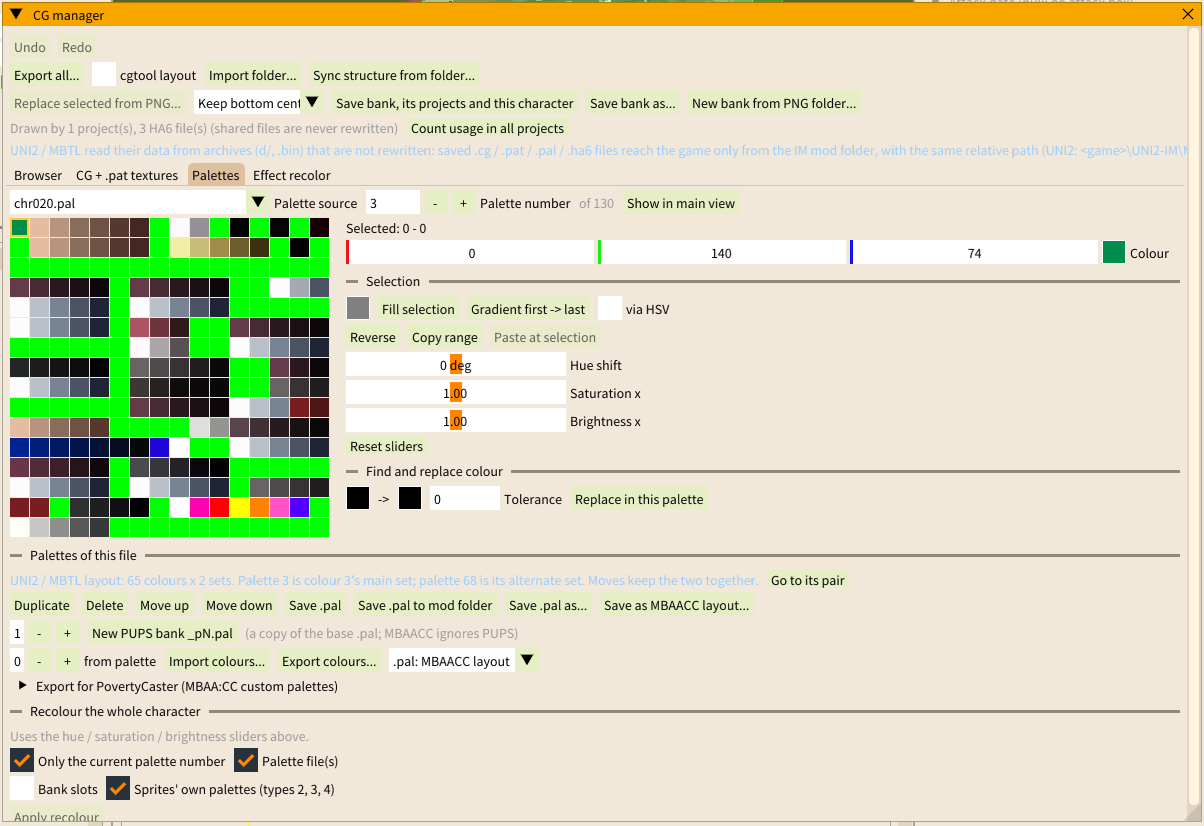
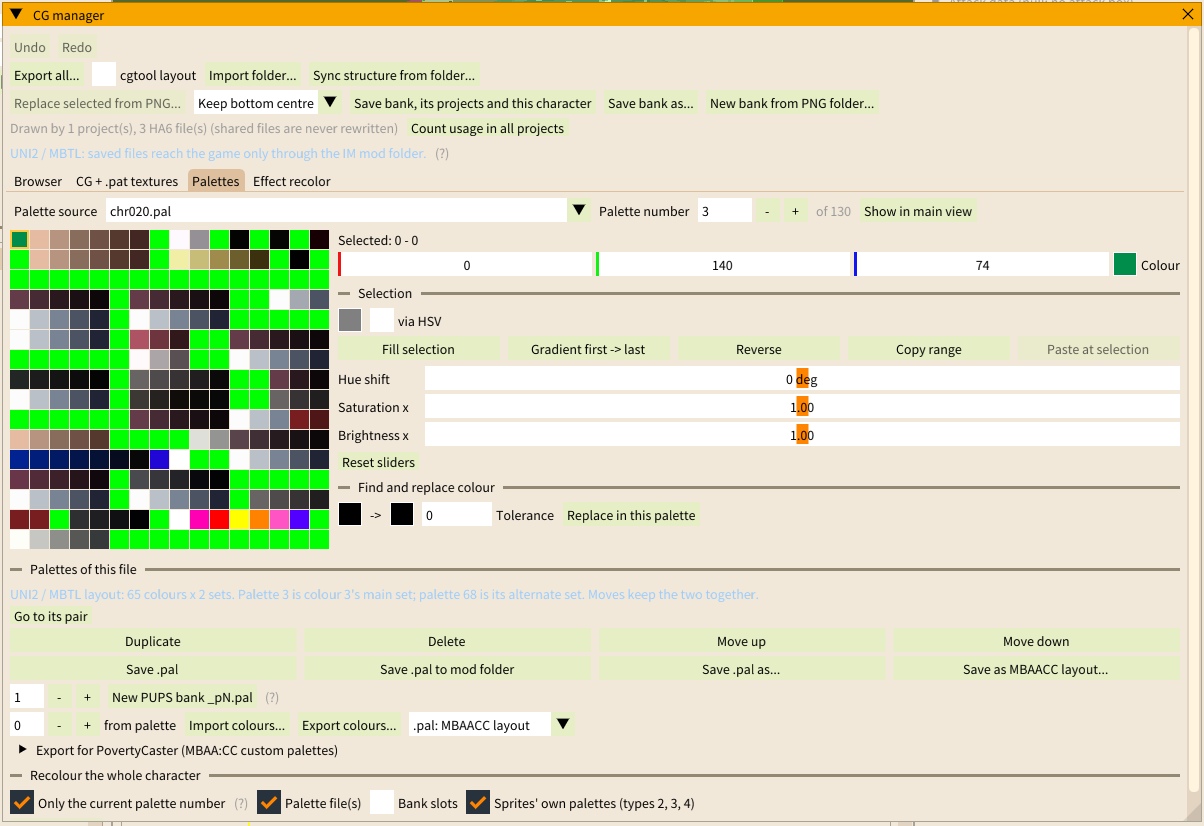
docs: layout sweep round 3 status, before/after sheets (IF/EF, CG manager tabs, L_all/L_pat at 1280 and 1080, EN+JA); CG manager showcase shots re-cropped

diff --git a/docs/showcase_2026-10-16/scripts/ui/crop_features.py b/docs/showcase_2026-10-16/scripts/ui/crop_features.py
@@ -2,7 +2,7 @@
 """crop_features.py <shot dir> <features dir>: cut each feature window out of the full-frame --ui-script capture.
 The boxes are the windows' rects in the 1884x961 client area that run_features.sh produces (ab_shot.sh 1900x1000 layout).
 Since ui::FitNextWindow (layout sweep) the tool windows open centred on the work area; the pcmod export window keeps its spot."""
-import sys
+import os, sys
 from PIL import Image
 
 BOXES = {   # name: (left, top, right, bottom); the squirrel hover box also covers the tooltip, the game link box is the panel only (it no longer sits over the sprite)
@@ -18,5 +18,6 @@ BOXES = {   # name: (left, top, right, bottom); the squirrel hover box also cove
 }
 src, dst = sys.argv[1], sys.argv[2]
 for name, box in BOXES.items():
+    if not os.path.exists(f'{src}/{name}.png'): continue   # re-crop a subset (e.g. only the CG manager shots)
     Image.open(f'{src}/{name}.png').convert('RGB').crop(box).save(f'{dst}/{name}.png', optimize=True)
     print(name, box)

diff --git a/docs/ui/LAYOUT_AUDIT_2026-10-16.md b/docs/ui/LAYOUT_AUDIT_2026-10-16.md
@@ -26,13 +26,13 @@ Branch `ui/layout-sweep` (cut from `update/parity-1014`).
 | 6 | PAT editor (RBO / GOF2 / MBAACC .pat) | Tool pane (top right, 60% of the centre column) holds one help line; PartSet pane buttons clip ("Cle...", "Update fr...") in its 30% column; Shape pane is one button over a large empty area | wasted space, clipped | **Fixed** (dock): PAT layout keeps the left column at 30% and gives the Tool pane 36% instead of 60%. Shape pane emptiness remains (content is per-part) |
 | 7 | Right pane (AT / AS / AF / IF / effects) | All field widths are fixed px (`constexpr float width = 75.f` etc.), so a larger font (Preferences font size, high DPI) truncates every number | fixed px | **Fixed**: widths follow the font (`ui::Px`) |
 | 8 | Preferences (Saving and PAT editor) | Two full-width disabled help lines under Backup folder and one under Mouse buttons; fixed 120 / 260 px fields | long help, fixed px | **Fixed**: `(?)` tooltips, widths scale |
-| 9 | Right pane AT | ImGui's value-then-label convention with mixed multi-field rows ("Weak (6f) Hitstop 0 Cust HS 0 Cust BS"), label column not aligned between rows; JA labels clip at the pane edge at 1280 ("ガードフラグ") | alignment | **Fixed (round 2)** for AT / AS / AF: `ui::BeginLabelForm / FormRow` (label column sized to the longest label, capped at 42% of the pane, wraps with a full-text tooltip on overflow), one label column per display, sub-headers (Hitstop, Damage, Proration, Vectors, Effects; Flags, State; Sprite, Animation, Transforms). Guard/Hit vector rows, UNI VectorTable names and JA hint kept. IF / EF smart UIs (effects/*.h, frame_disp_if.h, ~280 call sites) still value-then-label: open |
+| 9 | Right pane AT | ImGui's value-then-label convention with mixed multi-field rows ("Weak (6f) Hitstop 0 Cust HS 0 Cust BS"), label column not aligned between rows; JA labels clip at the pane edge at 1280 ("ガードフラグ") | alignment | **Fixed (round 2)** for AT / AS / AF: `ui::BeginLabelForm / FormRow` (label column sized to the longest label, capped at 42% of the pane, wraps with a full-text tooltip on overflow), one label column per display, sub-headers (Hitstop, Damage, Proration, Vectors, Effects; Flags, State; Sprite, Animation, Transforms). Guard/Hit vector rows, UNI VectorTable names and JA hint kept. IF / EF smart UIs **fixed (round 3)**: frame_disp_if.h on one label column per condition (Type row label-first, Parameters sub-header, notes wrap, footer `ui::ButtonGrid`); effects/*.h through `effects/effect_form.h` (`EfRow` / `EfComboManual` / `EfSection`: label column = widest effect label, capped at 42%, `"--- X ---"` lines became sub-headers, X/Y pairs one row each); UNI2/MBTL label-table params (game_label_ui.h) as label rows |
 | 10 | Left pane | Empty region below the collapsed trees (no fill) at every size | empty region | **Fixed (round 2)**: a Pattern list (clipper, follows the current pattern, click = same as the Pattern combo) fills the height left under the collapsed trees; nothing opens by default |
-| 11 | CG manager | Fixed widths (Filter 160, Min/Max side 70, Thumbnail 120, Palette 90) do not follow the font; JA labels of "Min side / Max side" crowd the filter row | fixed px | Open (cgm_window.cpp left for the CG manager follow-up) |
+| 11 | CG manager | Fixed widths (Filter 160, Min/Max side 70, Thumbnail 120, Palette 90) do not follow the font; JA labels of "Min side / Max side" crowd the filter row | fixed px | **Fixed (round 3)**: all four tabs font-relative and label-first; toolbar buttons wrap; long UNI2/MBTL and effect-recolor help in `(?)`; Browser grid / inspector and Effect recolor list / preview are resizable splits filling the height; CG + .pat textures tab: CG list, .pat list (only the rows it needs) and Used-by on the left, actions grid + zoom + preview filling the right (resizable 46 / 54); palette tools and save rows as `ui::ButtonGrid` |
 | 12 | Script panel (Squirrel) | Three columns fixed (file list, editor, outline) leave the editor at ~45% of the window at 1280 | proportion | **Fixed (round 2)**: resizable table 18 / 64 / 18, Files / Outline toggles fold the side columns, editor takes the rest |
 | 13 | Box pane | Box-type colour strip and the "Copy all / Paste all / Copy params ..." row wrap unevenly in JA at 1280 (two buttons per line) | wrap | **Fixed (round 2)**: `ui::ButtonGrid` (src/ui/ui_layout2.h) equal-width cells, even rows; checkboxes on their own wrapping row. Colour strip unchanged |
 | 14 | Archive browser | Fine at all three sizes; the preview column keeps its proportion | - | No change |
-| 15 | han2 inspector / pac window / tool windows (tool_windows_impl.h) | Fixed `SetNextItemWidth(N)` in many places (cgm 29, tool windows 18, han2 15, fxr 15, png export 14, hmod 13) | fixed px | **Fixed (round 2)**: every positive `SetNextItemWidth/PushItemWidth(N)` in tool windows, png export, han2 pac / inspector, hmod, fxr (+ bg inspector, tag, authoring, pcmod export, cmd editor, game link, workspace hosts) goes through `ui::Px`. Some ImVec2 child sizes and the han2 frame-strip cards stay fixed |
+| 15 | han2 inspector / pac window / tool windows (tool_windows_impl.h) | Fixed `SetNextItemWidth(N)` in many places (cgm 29, tool windows 18, han2 15, fxr 15, png export 14, hmod 13) | fixed px | **Fixed (round 2)**: every positive `SetNextItemWidth/PushItemWidth(N)` in tool windows, png export, han2 pac / inspector, hmod, fxr (+ bg inspector, tag, authoring, pcmod export, cmd editor, game link, workspace hosts) goes through `ui::Px`. Remaining ImVec2 child sizes and the han2 frame-strip cards **fixed (round 3)** |
 
 ## Shared helper
 
@@ -49,8 +49,24 @@ Branch `ui/layout-sweep` (cut from `update/parity-1014`).
 - Showcase crop boxes (`docs/showcase_2026-10-16/scripts/ui/crop_features.py`) re-measured for the centred windows; feature shots re-run and re-cropped.
 - Before / after sheets: `docs/ui/evidence/layout2_2026-10-16/` (`make_sheets.py <out> before2 after2`).
 
+## Round 3 (branch `ui/layout-sweep3`)
+
+- Item 9 (IF / EF) and item 11 (CG manager): see the table.
+- Fixed pixel sizes left after round 2: han2 frame-strip cards (card, picture and label follow the font), tag window (its own
+  SetNextWindowPos fought FitNextWindow), authoring crash log / Load in game / SE browser / win-quote file list / HUD layout
+  split, bg inspector object and frame lists, bg browser thumbnails, cmd editor detail split, pac table, and the last literal
+  `SetNextItemWidth(N)` in archive browser, box pane, menus, PAT editor, stage card, pattern picker popup.
+- Left pane pattern list (item 10): the selection follows the current pattern both ways; it scrolls only when the row is out
+  of view and never while a popup (the Pattern combo's keyboard navigation) or the list itself has keyboard nav; per-pane
+  state instead of a function static shared by every open character.
+- `ui::ButtonGrid` placed its cells with `SameLine(x)`, which adds a table column's offset twice: a grid inside a table cell ran
+  off the pane. It now positions cells in screen space.
+- Shots: `tools/ui/shots_layout/L_r3.txt` (IF+EF on akiha p73 f5, every CG manager tab on UNI2 chr020), `L_r3if.txt`
+  (Conditions alone, UNI2 label-table forms), `run_layout.sh <tag> [exe] [script] [sizes]`,
+  `make_sheets.py <out> <before> <after> [dir suffix]`. Sheets: `docs/ui/evidence/layout3_2026-10-16/`
+  (L* = L_all / L_pat round 2 after vs round 3, R* = round 3 scripts before vs after; 1280x720 and 1920x1080, EN + JA).
+
 ## Remaining
 
-- Item 9 for IF / EF (frame_disp_if.h and effects/*.h smart UIs).
-- Item 11 (CG manager, after fix/pat-ingame-proof).
-- ImVec2 child sizes in tag / authoring / bg inspector / cmd editor, han2 frame-strip cards.
+- BOF / Extended effect helpers (`bof_extensions.h`: DrawEffect154, DrawVar6Presets) keep their own value-then-label rows.
+- CG + .pat textures tab at 1280x720: the CG list gets ~5 rows while Used-by keeps a fixed share; could size Used-by to content.
